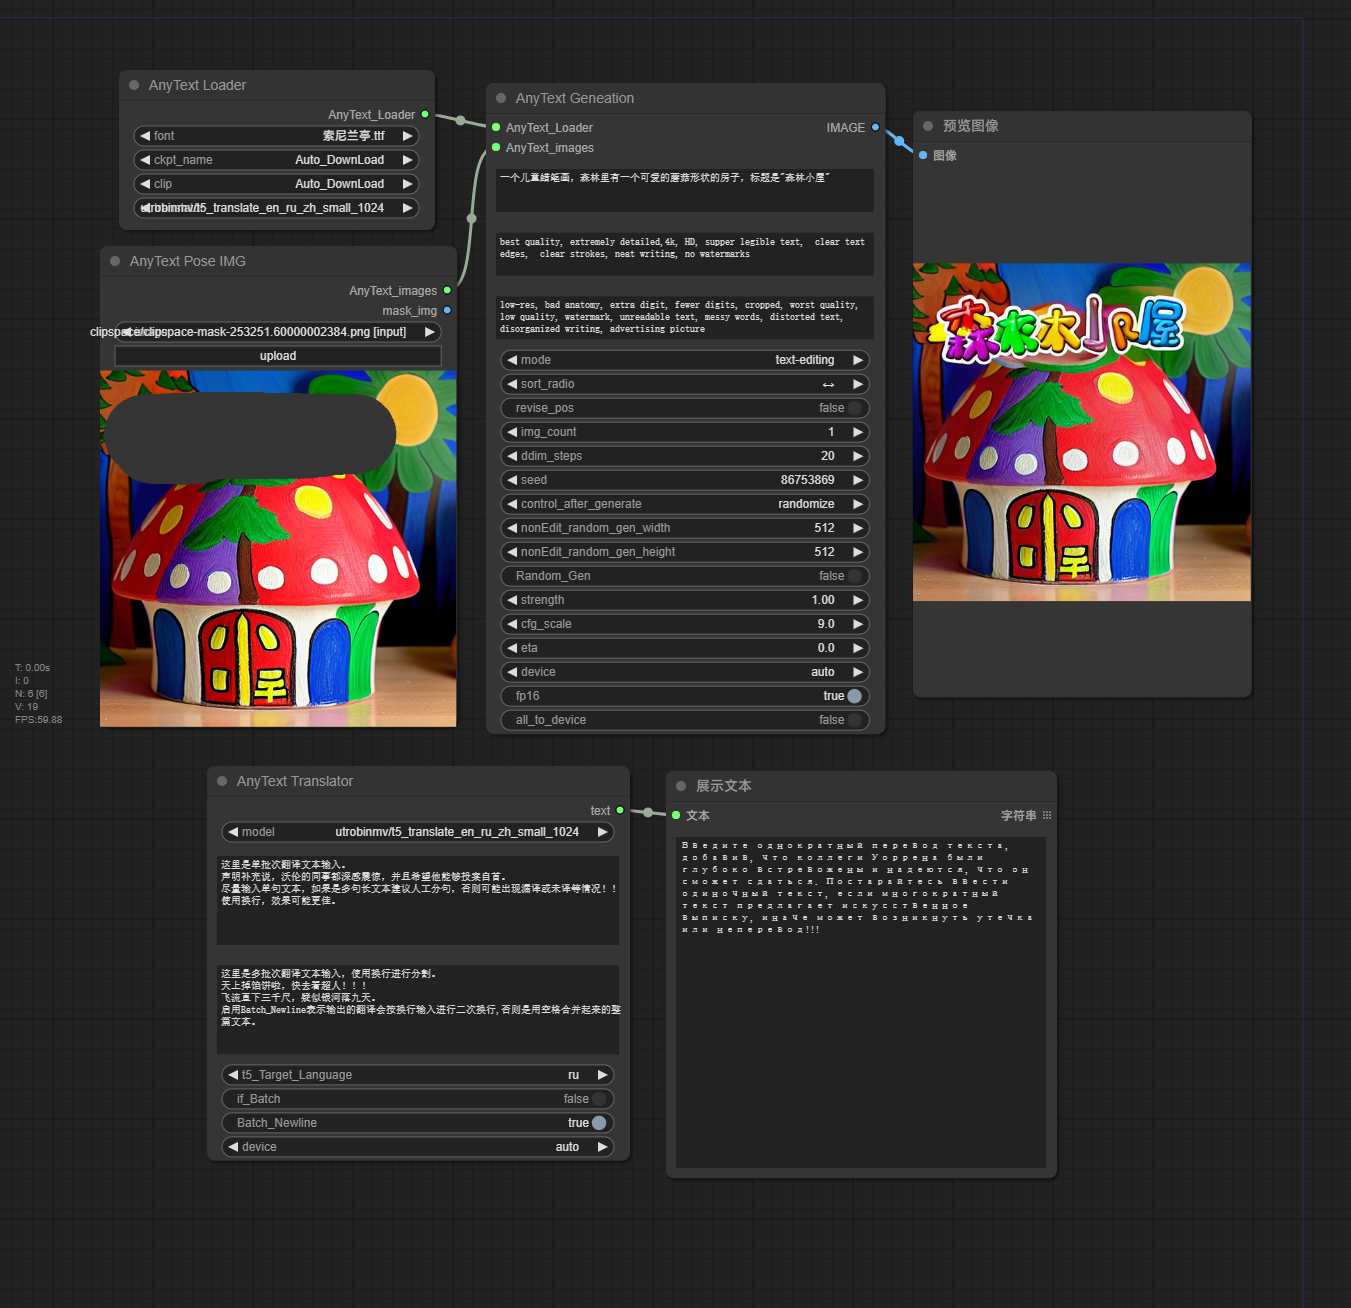
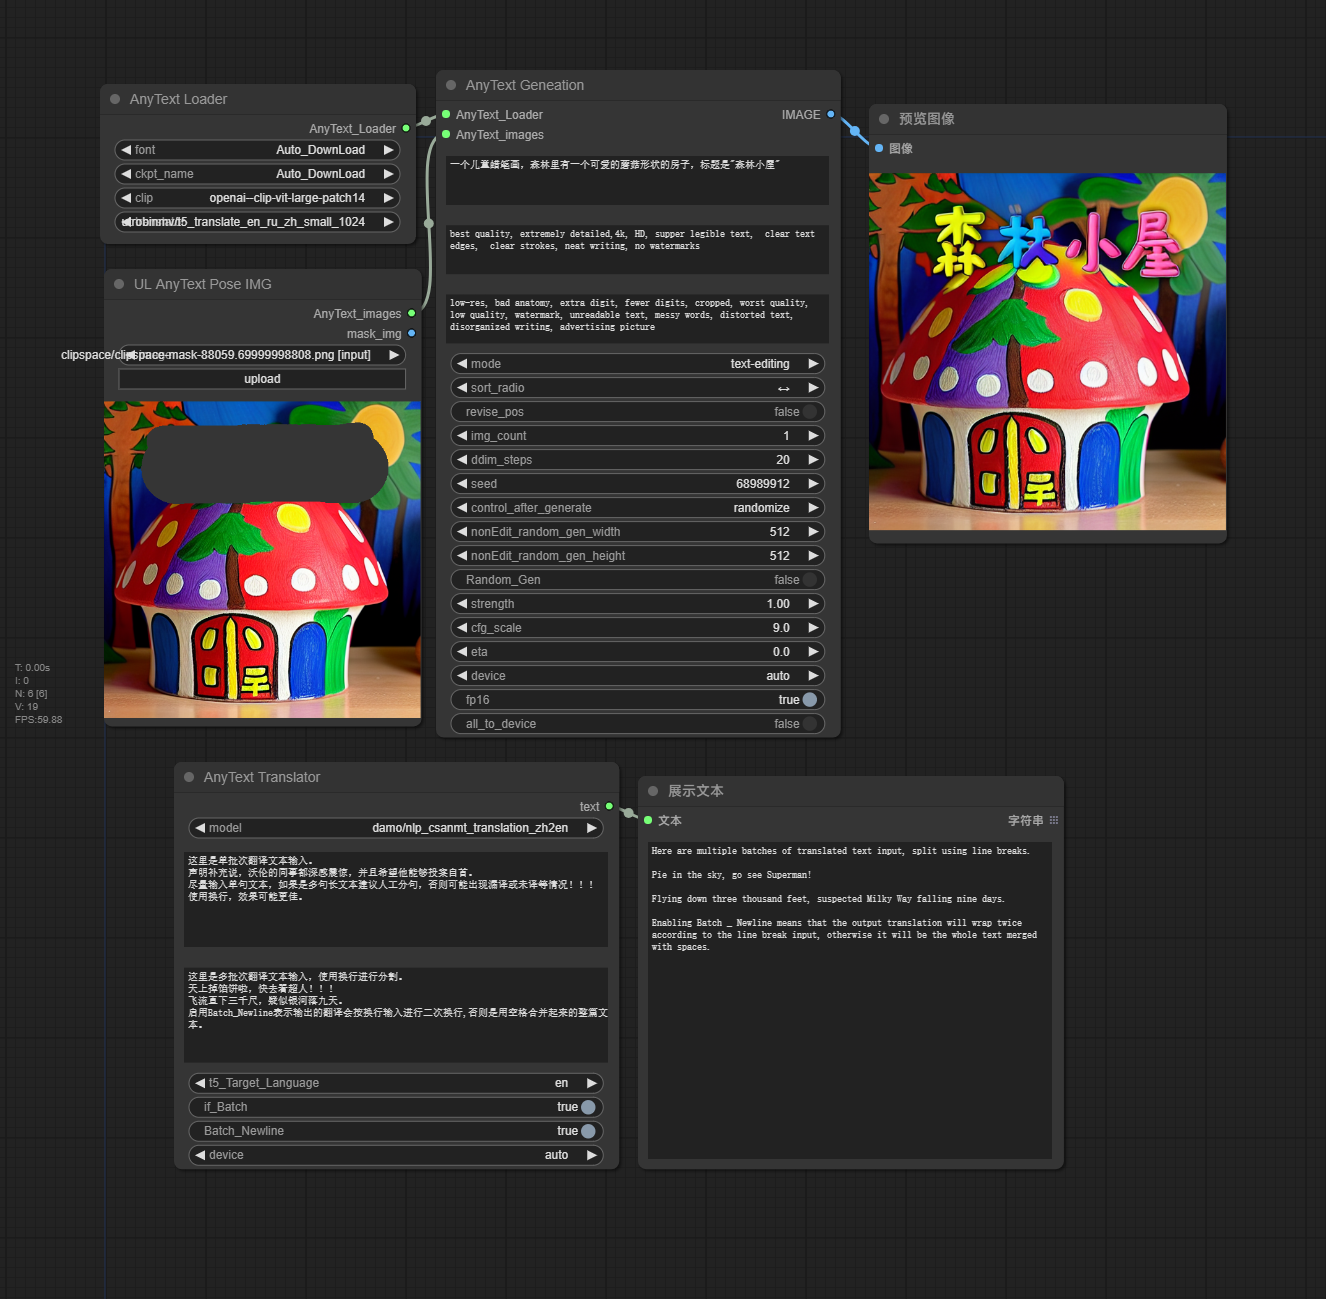
Bug fix and workflow updated.修复bug并更新工作流。

diff --git a/AnyText/utils.py b/AnyText/utils.py
@@ -28,7 +28,7 @@ class AnyText_loader:
                 "font": (font_list, ),
                 "ckpt_name": (checkpoints_list, ),
                 "clip": (clip_list, ),
-                "translator": (["utrobinmv/t5_translate_en_ru_zh_small_1024", "damo/nlp_csanmt_translation_zh2en"],{"default": "utrobinmv/t5_translate_en_ru_zh_base_200"}), 
+                "translator": (["utrobinmv/t5_translate_en_ru_zh_small_1024", "damo/nlp_csanmt_translation_zh2en"],{"default": "utrobinmv/t5_translate_en_ru_zh_small_1024"}), 
                 # "show_debug": ("BOOLEAN", {"default": False}),
                 }
             }
@@ -161,7 +161,7 @@ class AnyText_translator:
     def INPUT_TYPES(cls):
         return {
             "required": {
-                "model":  (["utrobinmv/t5_translate_en_ru_zh_small_1024", "damo/nlp_csanmt_translation_zh2en"],{"default": "utrobinmv/t5_translate_en_ru_zh_base_200"}), 
+                "model":  (["utrobinmv/t5_translate_en_ru_zh_small_1024", "damo/nlp_csanmt_translation_zh2en"],{"default": "utrobinmv/t5_translate_en_ru_zh_small_1024"}), 
                 "prompt": ("STRING", {"default": "这里是单批次翻译文本输入。\n声明补充说，沃伦的同事都深感震惊，并且希望他能够投案自首。\n尽量输入单句文本，如果是多句长文本建议人工分句，否则可能出现漏译或未译等情况！！！\n使用换行，效果可能更佳。", "multiline": True}),
                 "Batch_prompt": ("STRING", {"default": "这里是多批次翻译文本输入，使用换行进行分割。\n天上掉馅饼啦，快去看超人！！！\n飞流直下三千尺，疑似银河落九天。\n启用Batch_Newline表示输出的翻译会按换行输入进行二次换行,否则是用空格合并起来的整篇文本。", "multiline": True}),
                 "t5_Target_Language": (["en", "zh", "ru", ],{"default": "en"}), 
@@ -220,7 +220,7 @@ class AnyText_translator:
                 self.zh2en_path = "utrobinmv/t5_translate_en_ru_zh_small_1024"
             outputs = t5_translate_en_ru_zh(t5_Target_Language, input_sequence, self.zh2en_path, device)[0]
             if if_Batch == True:
-                results = outputs.split('|')
+                results = outputs.split('| ')
                 if Batch_Newline == True:
                     results = '\n\n'.join(results)
                 else:

diff --git a/AnyText/AnyText_scripts/AnyText_pipeline.py b/AnyText/AnyText_scripts/AnyText_pipeline.py
@@ -51,9 +51,10 @@ class AnyText_Pipeline():
         self.model = create_model(self.cfg_path, cond_stage_path=self.clip_path, use_fp16=self.use_fp16)
         if self.use_fp16:
             self.model = self.model.half().eval().to(self.device)
-        self.model.load_state_dict(load_state_dict(self.ckpt_path, location='cpu'), strict=False)
         if all_to_device == True:
             self.model.load_state_dict(load_state_dict(self.ckpt_path, location=device), strict=False)
+        else:
+            self.model.load_state_dict(load_state_dict(self.ckpt_path, location='cpu'), strict=False)
         self.ddim_sampler = DDIMSampler(self.model, device=self.device)
         if use_translator == True:
             #加载中译英模型，模型地址https://modelscope.cn/models/iic/nlp_csanmt_translation_zh2en
